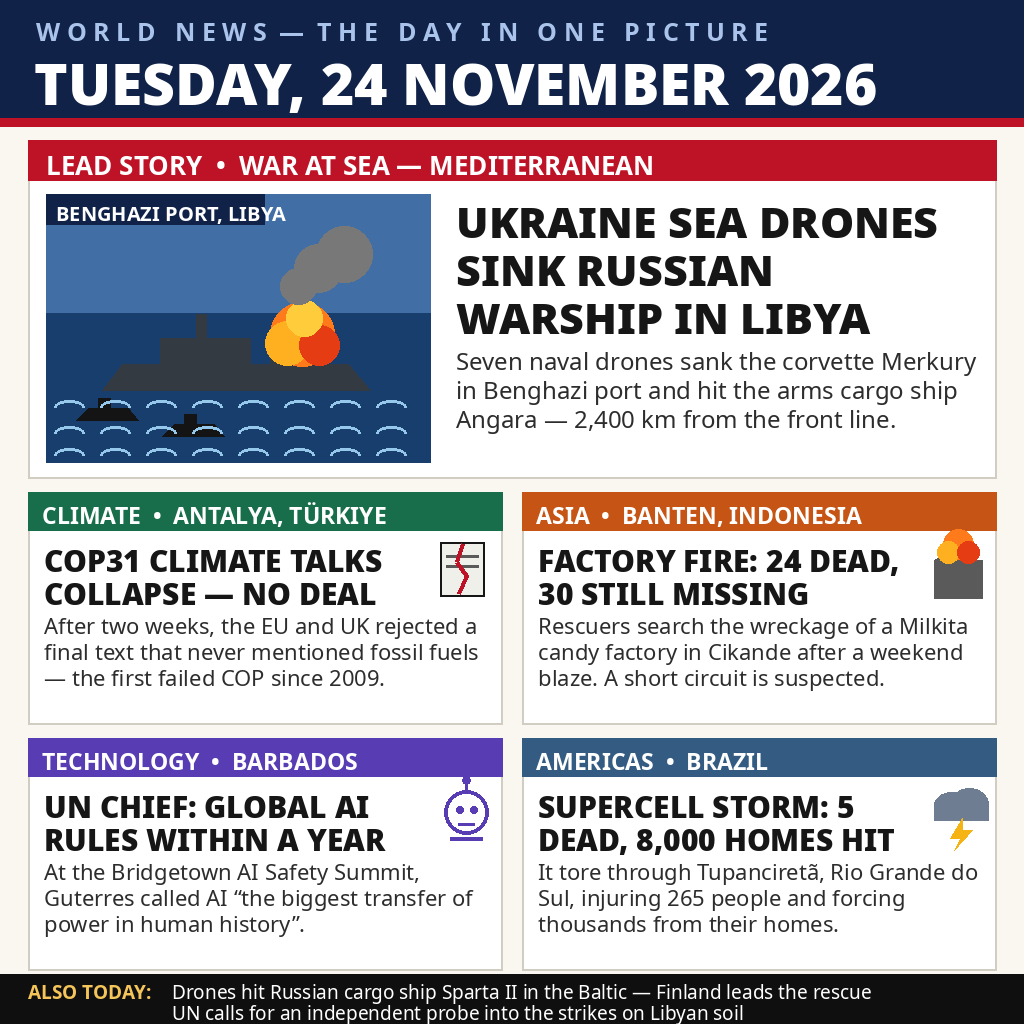
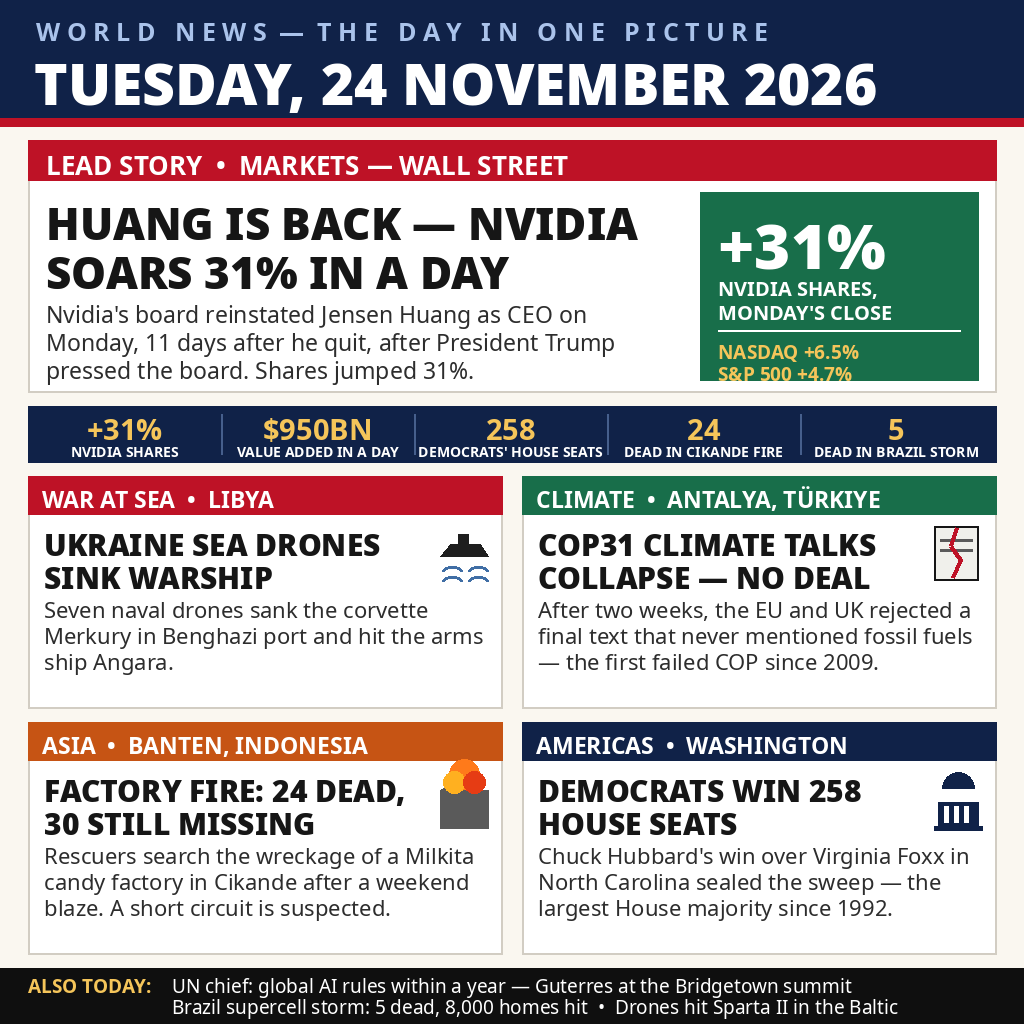
v2: Huang/Nvidia lead + big-number strip + Democrats 258 card (round-1 board lessons)

diff --git a/build_image_v2.py b/build_image_v2.py
@@ -1,0 +1,183 @@
+#!/usr/bin/env python3
+"""DRAFT v2 (not submitted) of the news-image-20261124 entry: one 1024x1024
+newspaper-style image summing up the world news of Tuesday, 24 November 2026.
+
+What changed vs v1 (from the round-1 board teardown):
+- LEAD is now the day's biggest story, which v1 omitted entirely: Nvidia
+  reinstates Jensen Huang as CEO, shares +31% (verified: Reuters/Investopedia/
+  Barron's — closed +31% Mon 23 Nov, ~$950bn added, largest one-day gain ever
+  for a US company; Nasdaq +6.5%, S&P 500 +4.7%; Trump pressed the board).
+  Two of the five entries directly above us in round 1 led with this story.
+- New big-number stat strip (readable at 300 px): +31% / $950BN / 258 / 24 / 5.
+- Democrats' 258 House seats (largest since 1992, verified AP) promoted from
+  absent to a full card.
+- The five verified v1 stories are ALL kept: Ukraine sea drones off Libya,
+  COP31 collapse, Cikande factory fire, UN AI rules (Barbados), Brazil storm —
+  the last two move to the ALSO TODAY strip to make room.
+- Same programmatic PIL pattern as build_image.py; same masthead, same fonts.
+"""
+from PIL import Image, ImageDraw, ImageFont
+
+W = H = 1024
+BG = (250, 247, 240)
+NAVY = (16, 34, 72)
+INK = (22, 22, 22)
+RED = (190, 18, 38)
+WHITE = (255, 255, 255)
+GREY = (90, 90, 90)
+GREEN = (24, 110, 74)
+GOLD = (245, 197, 90)
+
+F_BLACK = "/usr/share/fonts/truetype/noto/NotoSans-Black.ttf"
+F_BOLD = "/usr/share/fonts/truetype/noto/NotoSans-Bold.ttf"
+F_REG = "/usr/share/fonts/truetype/noto/NotoSans-Regular.ttf"
+
+def font(path, size):
+    return ImageFont.truetype(path, size)
+
+img = Image.new("RGB", (W, H), BG)
+d = ImageDraw.Draw(img)
+
+def wrap(text, fnt, maxw):
+    words, lines, cur = text.split(), [], ""
+    for w in words:
+        t = (cur + " " + w).strip()
+        if d.textlength(t, font=fnt) <= maxw:
+            cur = t
+        else:
+            if cur:
+                lines.append(cur)
+            cur = w
+    if cur:
+        lines.append(cur)
+    return lines
+
+def text_block(x, y, text, fnt, fill, maxw, leading=1.18):
+    for line in wrap(text, fnt, maxw):
+        d.text((x, y), line, font=fnt, fill=fill)
+        y += int(fnt.size * leading)
+    return y
+
+# ---------------- Masthead ----------------
+d.rectangle([0, 0, W, 118], fill=NAVY)
+d.rectangle([0, 118, W, 126], fill=RED)
+d.text((36, 14), "W O R L D   N E W S  —  T H E   D A Y   I N   O N E   P I C T U R E",
+       font=font(F_BOLD, 25), fill=(170, 195, 235))
+d.text((34, 44), "TUESDAY, 24 NOVEMBER 2026", font=font(F_BLACK, 57), fill=WHITE)
+
+# ---------------- Lead story: Nvidia / Huang ----------------
+LX, LY, LW, LH = 28, 140, 968, 252
+d.rectangle([LX, LY, LX + LW, LY + LH], fill=WHITE, outline=(210, 205, 195), width=2)
+d.rectangle([LX, LY, LX + LW, LY + 40], fill=RED)
+d.text((LX + 18, LY + 7), "LEAD STORY  •  MARKETS — WALL STREET", font=font(F_BOLD, 26), fill=WHITE)
+
+TX, TW = LX + 18, 630
+y = LY + 52
+y = text_block(TX, y, "HUANG IS BACK — NVIDIA SOARS 31% IN A DAY",
+               font(F_BLACK, 44), INK, TW, 1.12)
+y += 8
+y = text_block(TX, y, "Nvidia's board reinstated Jensen Huang as CEO on Monday, 11 days after "
+                      "he quit, after President Trump pressed the board. Shares jumped 31%.",
+               font(F_REG, 23), (45, 45, 45), TW, 1.22)
+assert y <= LY + LH - 8, f"lead overflow: {y} > {LY + LH - 8}"
+
+# Stat box (right of lead)
+SX, SY, SW, SH = 700, LY + 52, 278, 188
+d.rectangle([SX, SY, SX + SW, SY + SH], fill=GREEN)
+d.text((SX + 18, SY + 10), "+31%", font=font(F_BLACK, 62), fill=WHITE)
+d.text((SX + 18, SY + 82), "NVIDIA SHARES,", font=font(F_BOLD, 20), fill=WHITE)
+d.text((SX + 18, SY + 106), "MONDAY'S CLOSE", font=font(F_BOLD, 20), fill=WHITE)
+d.line([SX + 18, SY + 138, SX + SW - 18, SY + 138], fill=(255, 255, 255), width=2)
+d.text((SX + 18, SY + 146), "NASDAQ +6.5%", font=font(F_BOLD, 19), fill=GOLD)
+d.text((SX + 18, SY + 168), "S&P 500 +4.7%", font=font(F_BOLD, 19), fill=GOLD)
+
+# ---------------- Big-number stat strip ----------------
+STY, STH = 406, 56
+d.rectangle([28, STY, 996, STY + STH], fill=NAVY)
+stats = [("+31%", "NVIDIA SHARES"),
+         ("$950BN", "VALUE ADDED IN A DAY"),
+         ("258", "DEMOCRATS' HOUSE SEATS"),
+         ("24", "DEAD IN CIKANDE FIRE"),
+         ("5", "DEAD IN BRAZIL STORM")]
+col_w = 968 // 5
+for i, (num, label) in enumerate(stats):
+    cx = 28 + i * col_w
+    if i:
+        d.line([cx, STY + 8, cx, STY + STH - 8], fill=(70, 95, 140), width=2)
+    nw = d.textlength(num, font=font(F_BOLD, 29))
+    d.text((cx + (col_w - nw) / 2, STY + 3), num, font=font(F_BOLD, 29), fill=GOLD)
+    lw = d.textlength(label, font=font(F_BOLD, 14))
+    d.text((cx + (col_w - lw) / 2, STY + 36), label, font=font(F_BOLD, 14), fill=WHITE)
+
+# ---------------- Story cards ----------------
+def card(x, y, w, h, accent, kicker, headline, body, draw_icon):
+    d.rectangle([x, y, x + w, y + h], fill=WHITE, outline=(210, 205, 195), width=2)
+    d.rectangle([x, y, x + w, y + 38], fill=accent)
+    d.text((x + 14, y + 7), kicker, font=font(F_BOLD, 23), fill=WHITE)
+    draw_icon(x + w - 62, y + 50)
+    yy = text_block(x + 16, y + 47, headline, font(F_BLACK, 30), INK, w - 96, 1.12)
+    yy += 5
+    yy = text_block(x + 16, yy, body, font(F_REG, 22), (45, 45, 45), w - 30, 1.22)
+    assert yy <= y + h - 6, f"card overflow: {kicker} ends {yy} > {y + h - 6}"
+
+def icon_drones(cx, cy):
+    d.polygon([(cx, cy + 30), (cx + 10, cy + 18), (cx + 40, cy + 18), (cx + 48, cy + 30)],
+              fill=(30, 30, 30))
+    d.rectangle([cx + 18, cy + 8, cx + 28, cy + 18], fill=(30, 30, 30))
+    for wy in (cy + 40, cy + 50):
+        d.arc([cx + 2, wy, cx + 22, wy + 10], 180, 360, fill=(64, 110, 165), width=3)
+        d.arc([cx + 28, wy, cx + 48, wy + 10], 180, 360, fill=(64, 110, 165), width=3)
+
+def icon_climate(cx, cy):
+    d.rectangle([cx, cy, cx + 44, cy + 54], fill=(240, 240, 235), outline=INK, width=2)
+    d.line([cx + 6, cy + 14, cx + 38, cy + 14], fill=GREY, width=3)
+    d.line([cx + 6, cy + 24, cx + 38, cy + 24], fill=GREY, width=3)
+    d.line([cx + 22, cy + 2, cx + 16, cy + 20, cx + 26, cy + 34, cx + 18, cy + 52], fill=RED, width=4)
+
+def icon_factory(cx, cy):
+    d.rectangle([cx, cy + 18, cx + 48, cy + 56], fill=(90, 90, 90))
+    d.polygon([(cx, cy + 18), (cx + 16, cy + 6), (cx + 16, cy + 18)], fill=(90, 90, 90))
+    d.polygon([(cx + 16, cy + 18), (cx + 32, cy + 6), (cx + 32, cy + 18)], fill=(90, 90, 90))
+    for dx, dy, r, c in [(24, 2, 15, (255, 122, 26)), (14, 10, 11, (255, 176, 32)), (34, 10, 11, (230, 60, 20))]:
+        d.ellipse([cx + dx - r, cy + dy - r, cx + dx + r, cy + dy + r], fill=c)
+
+def icon_dome(cx, cy):
+    d.pieslice([cx + 8, cy, cx + 40, cy + 32], 180, 360, fill=(16, 34, 72))
+    d.rectangle([cx + 4, cy + 30, cx + 44, cy + 54], fill=(16, 34, 72))
+    for bx in (cx + 10, cx + 20, cx + 30):
+        d.rectangle([bx, cy + 34, bx + 4, cy + 50], fill=WHITE)
+    d.rectangle([cx, cy + 54, cx + 48, cy + 58], fill=(16, 34, 72))
+
+ROW1_Y, ROW_H, CW, GAP = 476, 232, 474, 20
+card(28, ROW1_Y, CW, ROW_H, RED, "WAR AT SEA  •  LIBYA",
+     "UKRAINE SEA DRONES SINK WARSHIP",
+     "Seven naval drones sank the corvette Merkury in Benghazi port and hit the "
+     "arms ship Angara.", icon_drones)
+card(28 + CW + GAP, ROW1_Y, CW, ROW_H, (24, 110, 74), "CLIMATE  •  ANTALYA, TÜRKIYE",
+     "COP31 CLIMATE TALKS COLLAPSE — NO DEAL",
+     "After two weeks, the EU and UK rejected a final text that never mentioned fossil fuels — "
+     "the first failed COP since 2009.", icon_climate)
+
+ROW2_Y = 722
+card(28, ROW2_Y, CW, ROW_H, (198, 84, 20), "ASIA  •  BANTEN, INDONESIA",
+     "FACTORY FIRE: 24 DEAD, 30 STILL MISSING",
+     "Rescuers search the wreckage of a Milkita candy factory in Cikande after a weekend blaze. "
+     "A short circuit is suspected.", icon_factory)
+card(28 + CW + GAP, ROW2_Y, CW, ROW_H, (16, 34, 72), "AMERICAS  •  WASHINGTON",
+     "DEMOCRATS WIN 258 HOUSE SEATS",
+     "Chuck Hubbard's win over Virginia Foxx in North Carolina sealed the sweep — "
+     "the largest House majority since 1992.", icon_dome)
+
+# ---------------- Ticker ----------------
+TY = 968
+d.rectangle([0, TY, W, H], fill=(15, 15, 15))
+d.text((28, TY + 4), "ALSO TODAY:", font=font(F_BOLD, 19), fill=(245, 197, 90))
+d.text((172, TY + 4), "UN chief: global AI rules within a year — Guterres at the Bridgetown summit",
+       font=font(F_REG, 19), fill=WHITE)
+d.text((172, TY + 25), "Brazil supercell storm: 5 dead, 8,000 homes hit  •  Drones hit Sparta II in the Baltic",
+       font=font(F_REG, 19), fill=WHITE)
+
+img.save("/home/hatch/workspace/makefun/news-image-20261124/entry-v2-draft.png")
+img.resize((300, 300), Image.LANCZOS).save(
+    "/home/hatch/workspace/makefun/news-image-20261124/entry-v2-draft-300px.png")
+print("saved v2 draft + 300px thumbnail")

diff --git a/README.md b/README.md
@@ -9,36 +9,40 @@ world news of Tuesday, 24 November 2026, drawn as a newspaper front page.
 
 ## The image
 
-`entry.png` is a front-page layout with a dated masthead and five stories,
-plus a news ticker:
+`entry.png` is a front-page layout with a dated masthead, a lead story with
+a big-number stat strip, four story cards, and an "also today" strip:
 
-1. **Lead — Benghazi, Libya.** Seven Ukrainian naval drones sank the Russian
-   corvette *Merkury* in Benghazi port and hit the arms cargo ship *Angara* —
-   a strike some 2,400 km from the front line (AP / Reuters / CNN / WSJ).
-2. **Climate — Antalya, Türkiye.** The COP31 climate talks collapsed with no
+1. **Lead — Wall Street.** Nvidia's board reinstated Jensen Huang as CEO on
+   Monday, 11 days after he quit, after President Trump pressed the board;
+   shares jumped **31%** (about $950B of value added in a day), with the
+   Nasdaq up 6.5% and the S&P 500 up 4.7% (Reuters / Investopedia / Barron's).
+2. **War at sea — Benghazi, Libya.** Seven Ukrainian naval drones sank the
+   Russian corvette *Merkury* in Benghazi port and hit the arms cargo ship
+   *Angara* (AP / Reuters / CNN / WSJ).
+3. **Climate — Antalya, Türkiye.** The COP31 climate talks collapsed with no
    deal after the EU and UK rejected a final text that never mentioned fossil
    fuels — the first failed COP since Copenhagen in 2009 (CNN / WSJ).
-3. **Asia — Cikande, Banten, Indonesia.** A fire at a Milkita candy factory
+4. **Asia — Cikande, Banten, Indonesia.** A fire at a Milkita candy factory
    killed 24 people, with about 30 workers still missing as rescuers searched
    the wreckage (Reuters / AP).
-4. **Technology — Bridgetown, Barbados.** UN Secretary-General Guterres, at
-   the Bridgetown AI Safety Summit, urged governments to agree a global AI
-   risk framework within a year (Al Jazeera).
-5. **Americas — Tupanciretã, Brazil.** A supercell storm killed 5 people,
-   injured 265 and damaged about 8,000 homes in Rio Grande do Sul
-   (Al Jazeera / QNA).
+5. **Americas — Washington.** Democrats won **258 House seats** — Chuck
+   Hubbard's win over Virginia Foxx in North Carolina sealed the largest
+   House majority since 1992 (AP).
 
-Ticker: drones hit the Russian cargo ship *Sparta II* in the Baltic Sea
-(Finland led the rescue), and the UN called for an independent probe into
-the strikes on Libyan soil.
+Also today: UN Secretary-General Guterres, at the Bridgetown AI Safety
+Summit in Barbados, urged a global AI risk framework within a year; a
+supercell storm in Tupanciretã, Brazil killed 5 people and damaged about
+8,000 homes; and drones hit the Russian cargo ship *Sparta II* in the
+Baltic Sea.
 
 ## How it works
 
 - `main.ts` (Node 22, standard library only) copies `entry.png` to
   `/output/entry.png` — deterministic, no network, same bytes every run.
-- `build_image.py` is the generator that drew `entry.png` with Pillow:
-  every headline, label and illustration is rendered programmatically,
-  so the text is exact and the file is reproducible.
+- `build_image_v2.py` is the generator that drew `entry.png` with Pillow
+  (`build_image.py` drew the first version): every headline, label and
+  illustration is rendered programmatically, so the text is exact and
+  the file is reproducible.
 
 ## License
 
